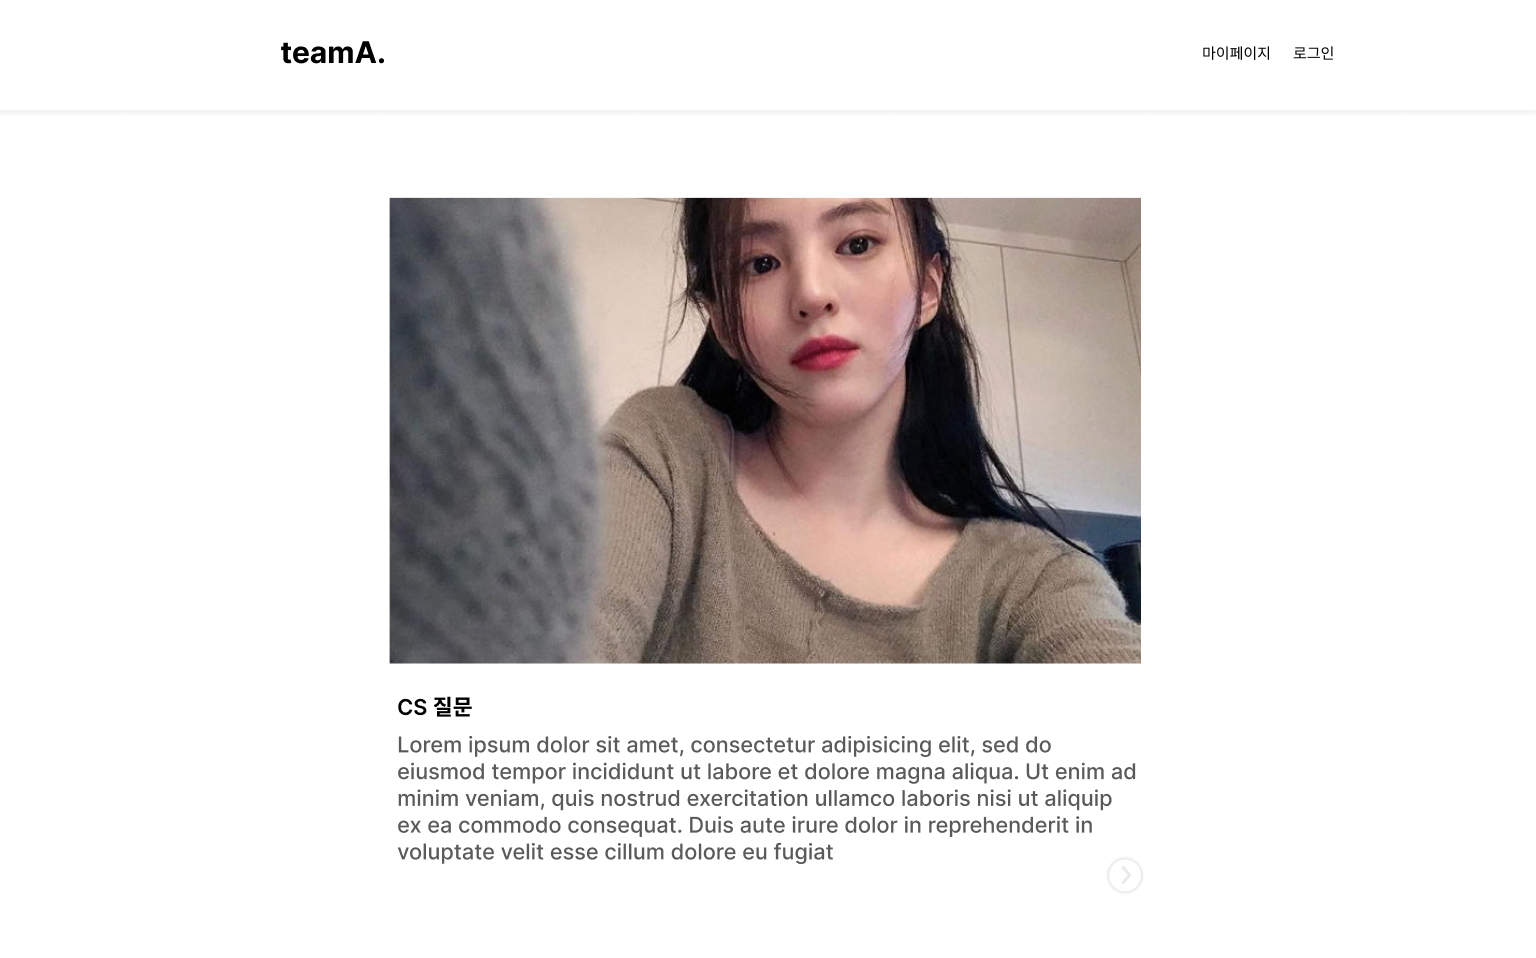
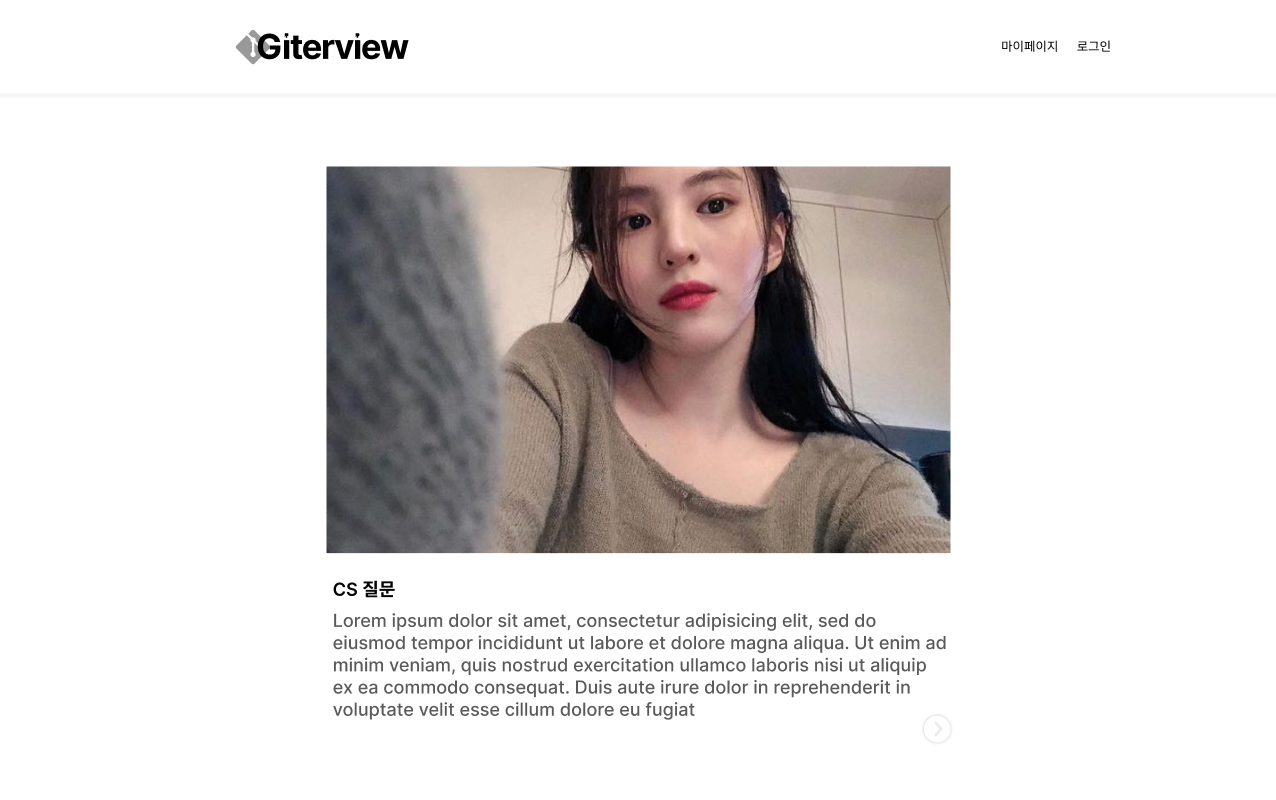
feat:이력서

diff --git a/2023winterbootcamp/src/Choosepage.tsx b/2023winterbootcamp/src/Choosepage.tsx
@@ -293,14 +293,18 @@ const ResumeBox = styled.div<{ $pre_image_url: string; $isSelected: boolean }>`
   margin-left: 5px;
   border-radius: 4px;
   margin-bottom: 20px;
+  margin-top: 20px;
   cursor: pointer;
   border: ${(props) =>
     props.$isSelected ? "2px solid black" : "2px solid #ffffff"};
-  //transition: all 0.3s ease-in-out;
+  position: relative;
+  overflow: hidden;
 
   &:hover {
     border: 2px solid #000000;
     background-color: rgba(0, 0, 0, 0.5);
+    //transform: translateY(-5px);
+    border-radius: 6px;
   }
 
   &:hover::before {
@@ -314,10 +318,10 @@ const ResumeBox = styled.div<{ $pre_image_url: string; $isSelected: boolean }>`
     border-radius: 4px;
   }
 
-  position: relative;
-  overflow: hidden;
-
   &:hover {
+    filter: none;
+    opacity: 1;
+
     ${BlackBox} {
       height: 100%;
       opacity: 0.6;
@@ -327,13 +331,24 @@ const ResumeBox = styled.div<{ $pre_image_url: string; $isSelected: boolean }>`
       transform: translateY(0);
     }
   }
+
+  filter: none;
+  ${(props) =>
+    !props.$isSelected &&
+    css`
+      filter: blur(1px);
+    `};
+  opacity: ${(props) => (props.$isSelected ? "1" : "0.6")};
+  transition:
+    filter 0.3s,
+    opacity 0.3s;
 `;
 
 const TextWrapper2 = styled.div`
   width: 100%;
   display: flex;
   justify-content: flex-start;
-  height: 90px;
+  height: 60px;
   margin-top: 20px;
 `;
 
@@ -345,7 +360,7 @@ const TextWrapper2 = styled.div`
 // `;
 
 const Text33 = styled.div`
-  color: lightgray;
+  color: gray;
   font-size: 14px;
   margin-top: 50px;
   margin-left: 10px;
@@ -361,6 +376,7 @@ const RepoContainer = styled.div`
   flex-wrap: wrap;
   gap: 20px 2%;
   user-select: none;
+  margin-top: 20px;
   @media screen and (max-width: 769px) {
     margin-left: 15%;
   }
@@ -540,7 +556,7 @@ const DropdownSelect3 = styled.select`
 
 const DropText = styled.div`
   font-size: 14px;
-  color: lightgray;
+  color: gray;
   margin-bottom: 40px;
   user-select: none;
   @media screen and (max-width: 769px) {
@@ -716,7 +732,13 @@ function Choose() {
 
   // 이력서 선택 클릭 이벤트 함수
   const handleResumeSelect = (resumeId: number) => {
-    setSelectedResume(resumeId);
+    // 만약 클릭한 이력서가 이미 선택된 상태라면, 선택 해제
+    if (selectedResume === resumeId) {
+      setSelectedResume(null);
+    } else {
+      // 그렇지 않다면, 이력서 선택
+      setSelectedResume(resumeId);
+    }
   };
 
   // Repository 선택 클릭 이벤트 함수

diff --git a/2023winterbootcamp/src/Mypage.tsx b/2023winterbootcamp/src/Mypage.tsx
@@ -500,6 +500,7 @@ function Mypage() {
   useEffect(() => {
     getResumes();
     getInterviewList();
+    window.scroll(0, 0);
   }, []);
 
   const scrollConRef = useRef<HTMLDivElement>(null);
@@ -519,14 +520,41 @@ function Mypage() {
     return false;
   };
 
+  useEffect(() => {
+    const fetchData = async () => {
+      try {
+        const [resumeResponse, interviewResponse] = await Promise.all([
+          api.get("resumes/", { withCredentials: true }),
+          api.get("interviews/", { withCredentials: true }),
+        ]);
+
+        const sortedResumeData = resumeResponse.data.sort(
+          (a: Resume, b: Resume) => b.created_at.localeCompare(a.created_at)
+        );
+
+        const sortedInterviewData = interviewResponse.data.sort(
+          (a: Interview, b: Interview) =>
+            b.created_at.localeCompare(a.created_at)
+        );
+
+        setResumeList(sortedResumeData);
+        setInterviewList(sortedInterviewData);
+      } catch (e) {
+        console.error(e);
+      }
+    };
+
+    fetchData();
+  }, []);
+
   return (
     <>
       <Container onContextMenu={handleSelectStart}>
         <Text1>내 이력서</Text1>
         <ResumeContainer>
           <ScrollContainer len={resumeList.length}>
-            <ResumePreview1 $pre_image_url='' {...getRootProps()}>
-              <input type='file' {...getInputProps()} />
+            <ResumePreview1 $pre_image_url="" {...getRootProps()}>
+              <input type="file" {...getInputProps()} />
               <Text7>
                 이 곳을 클릭해
                 <br />

diff --git a/2023winterbootcamp/src/Mainpage.tsx b/2023winterbootcamp/src/Mainpage.tsx
@@ -18,7 +18,6 @@ import { DropzoneInputProps, useDropzone } from "react-dropzone";
 import axios from "axios";
 import api from "./baseURL/baseURL";
 import Modal from "./components/Modal";
-//import LoadingModal from "./components/LoadingModal";
 import {
   RepoType,
   githubLoginInfoState,
@@ -763,7 +762,7 @@ function Main() {
       <>
         <ScrollContent>
           <Container onContextMenu={handleSelectStart}>
-          <FixedBackGround $imgUrl={picture0} />
+            <FixedBackGround $imgUrl={picture0} />
             <ScrollWrapper>
               <ScrollContent id="scrollContent">
                 <motion.div
@@ -916,14 +915,6 @@ function Main() {
               <Text10>
                 Giterview와 함께 개발자 커리어 준비를 시작해보세요
               </Text10>
-            </motion.div>
-
-            <motion.div
-              initial={{ opacity: 0 }}
-              animate={control3}
-              transition={{ duration: 10 }}
-            >
-              <Text9 onClick={handleAIInterviewClick}>면접보러 가기</Text9>
             </motion.div>
           </Container2>
         </ScrollContent>

diff --git a/2023winterbootcamp/src/components/Header.tsx b/2023winterbootcamp/src/components/Header.tsx
@@ -15,7 +15,6 @@ const HeaderContainer = styled.div`
   display: flex;
   justify-content: space-between;
   align-items: center;
-  padding-top: 10px;
   background-color: white;
   width: 100%;
   height: 80px;
@@ -29,12 +28,11 @@ const Logo = styled(motion(Link))`
   text-decoration: none;
   color: black;
   font-size: 28px;
-  margin-bottom: 20px;
-  margin-top: 50px;
   background: url(${logo}) no-repeat;
   background-size: contain;
   width: 150px;
-  height: 80px;
+  height: 38px;
+  align-items: center;
   @media screen and (max-width: 768px) {
     margin-left: 15%;
   }
@@ -47,23 +45,21 @@ const Logo = styled(motion(Link))`
 `;
 
 const Navigationbar = styled.div`
+  align-items: center;
   @media screen and (max-width: 768px) {
     display: flex;
     gap: 20px;
     margin-right: 10%;
-    margin-top: -10px;
   }
   @media screen and (min-width: 769px) and (max-width: 1023px) {
     display: flex;
     gap: 20px;
     margin-right: 14%;
-    margin-top: -10px;
   }
   @media screen and (min-width: 1024px) {
     display: flex;
     gap: 20px;
     margin-right: 20%;
-    margin-top: -10px;
   }
 `;
 

diff --git a/2023winterbootcamp/src/components/Footer.tsx b/2023winterbootcamp/src/components/Footer.tsx
@@ -62,7 +62,7 @@ function App() {
   return (
     <FooterContainer onContextMenu={handleSelectStart}>
       <TextBox>
-        <MainText>teamA.</MainText>
+        <MainText>Giterview</MainText>
         <SubText $margin_bottom={40}>문의 - 제안 teama@gmail.com</SubText>
         <SubText $margin_bottom={5}>2023-Winter-Techeer-SW-Bootcamp</SubText>
         <SubText $margin_bottom={0}>
